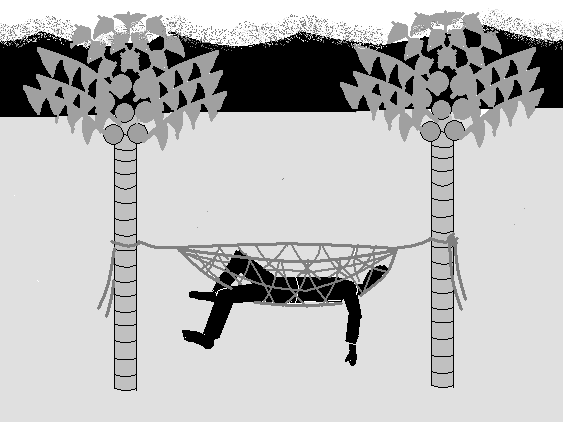
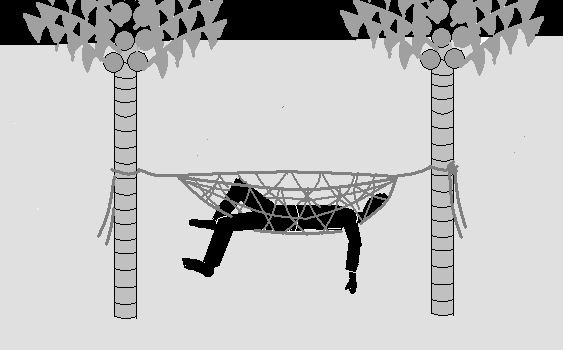
Fluid slide show layout.
On branch master
	modified:   static/css/master.css
	modified:   static/img/presentation/resting_software_engineer.png
	modified:   templates/base.html
	modified:   templates/home.html
	modified:   templates/join.html

diff --git a/google-app-engine/templates/home.html b/google-app-engine/templates/home.html
@@ -27,11 +27,208 @@ See CC-LICENSE in this folder for more details.
 
 {% endcomment %}{% extends "base.html" %}
 
+{% block top %}<script type="text/javascript" src="http://ajax.googleapis.com/ajax/libs/jquery/1.4.2/jquery.min.js"></script>
+<!--
+<script type="text/javascript" src="/js/jquery.js"></script>
+-->
+<script type="text/javascript" src="js/jquery.fireworks-impression.js"></script>
+<script type="text/javascript">
+/*jslint
+  browser: true
+, onevar: true
+, undef: true
+, nomen: true
+, eqeqeq: true
+, plusplus: true
+, bitwise: true
+, regexp: true
+, newcap: true
+, immed: true
+, strict: true
+, maxlen: 80
+*/
+
+/*global
+  window: false
+, console: true
+*/
+
+// ECMAScript 5 strict mode.
+"use strict";
+
+// Page specifications.
+var SPEC = {};
+
+SPEC.slideShowIntervals = [
+  7000
+, 5500
+, 9000
+, 7000
+, 6500
+, 7000
+, 8000
+, 10500
+, 7500
+, 9500
+, 8500
+, 7500
+];
+
+// Create a console object if there is not an ambient one.
+if (typeof console === 'undefined') {
+  var F = function () {};
+  console = {
+    log: F
+  , info: F
+  , error: F
+  , warn: F
+  , debug: F
+  , assert: F
+  };
+}
+
+// Page script is composed inside a closure.
+(function (window) {
+  // jQuery is assigned to j
+  var j = window.jQuery.noConflict(true)
+    , DOM_loaded = true
+    , WF_loaded = false
+    , presentation_intervals = window.SPEC.slideShowIntervals
+    , presentation
+    ;
+
+  WebFontConfig.typekit = {id: 'fcq2zzl'};
+
+  function slide_show_setup() {
+    console.debug('slide_show_setup() triggered');
+    if (!DOM_loaded || !WF_loaded) {
+      console.debug('DOM_loaded =', DOM_loaded);
+      console.debug('WF_loaded =', WF_loaded);
+      return;
+    }
+    console.debug('slide_show_setup() happening');
+
+    var presentation_player = j('#about-presentation')
+      , slide_height = 0
+      , controls = j('#presentation-controls')
+      , controls_height
+      , controls_padding = 12 // top + bottom padding
+      , controls_margins = 40 // left + right margin
+      , controls_widths = 60 // forward + back controls
+      , border_width = 2 // Presentation border
+      ;
+
+    j('div.presentation.slide')
+      .each(function (i) {
+        var h = j(this).show().height();
+        if (h > slide_height) {
+          slide_height = h;
+        }
+      })
+      .hide()
+      .css('height', slide_height +'px')
+      ;
+
+    controls_height = controls.show().height() + controls_padding;
+    j('#player-controls-notice')
+      .width(presentation_player.width()
+             - controls_margins
+             - controls_widths);
+    controls.hide();
+    console.debug('Slide show height', slide_height);
+    console.debug('Controls height', controls_height);
+    presentation_player
+      .css('border', '2px dashed #aaa')
+      .height(slide_height + controls_height);
+    j('#presentation-player-intro')
+      .click(function () {
+        var controls_notice_action = j('#controls-notice-action')
+          , controls_notice_index = j('#controls-notice-index')
+          ;
+
+        j('#controls-notice-length').text(presentation_intervals.length);
+
+        j(this).hide();
+        controls
+          .css('top', (slide_height + border_width) +'px')
+          .show();
+        presentation
+          .impression('play')
+          .css('cursor', 'pointer')
+          .toggle(
+            function () {
+              controls_notice_action.text('stopped on:');
+              presentation.impression('stop');
+            },
+            function () {
+              controls_notice_action.text('playing:');
+              presentation.impression('play');
+              })
+          .bind('impressShowing', function (ev, i) {
+            controls_notice_index.text(i +1);
+          })
+          ;
+        controls_notice_action.text('playing:');
+        controls_notice_index.text('1');
+        return false;
+      })
+      .show();
+  }
+
+  WebFontConfig.active = function () {
+    console.log('WebFont active event');
+    WF_loaded = true;
+    slide_show_setup();
+  };
+
+  j(function (j) {
+    presentation = j('#presentation').impression({
+      intervals: presentation_intervals 
+    });
+
+    j('#about').css('text-align', 'left');
+    j('#about-introduction').css({
+        width          : '48%'
+      , overflow       : 'hide'
+      , 'margin-top'   : '3em'
+      , 'margin-right' : '0'
+      , 'margin-left'  : '0'
+      , 'margin-bottom': '0'
+      , 'float'        : 'left'
+      });
+    j('#about-presentation')
+      .html(j('#presentation-player-template').html())
+      .append(presentation)
+      ;
+    j('div.presentation.slide')
+      .css({
+        'width': '100%'
+      , 'height': '100%'
+      , 'float': 'none'
+      , 'border-top': 'none'
+      , 'border-right': 'none'
+      , 'border-left': 'none'
+      , 'margin-top': '0'
+      , 'margin-left': '0'
+      , 'margin-bottom': '0'
+      , 'margin-right': '0'
+      });
+
+    DOM_loaded = true;
+    slide_show_setup();
+  });
+}(window));
+</script>{% endblock %}
+
 {% block head %}<style type="text/css">
+  #about {
+    text-align: center;
+  }
   #about-introduction {
-    float: left;
-    width: 474px;
-    margin-top: 5em;
+    width: 40em;
+    overflow: show;
+    margin: auto;
+    text-align: left;
   }
   #about-introduction h3.intro {
     font-size: 170%;
@@ -43,19 +240,19 @@ See CC-LICENSE in this folder for more details.
   }
   #about-presentation {
     font-family: "good-dog-1", "good-dog-2", monospace;
+    margin-left: 50%;
     position: relative;
-    margin-left: 494px;
   }
   #presentation-player-intro {
     text-align: center;
     font-size: 32px;
-    width: 250px;
-    height: 182px; /*Flow height calculated with Firebug with 7px of contingency. */
+    width: 12em;
     position: absolute;
     left: 50%;
     top: 40%;
-    margin-left: -125px;
-    margin-top: -91px;
+    margin-left: -6em;
+    margin-top: -2em;
+    cursor: pointer;
   }
   #player-intro-content {
     margin-bottom: 1em;
@@ -64,20 +261,17 @@ See CC-LICENSE in this folder for more details.
     position: absolute;
     font-size: 24px;
     padding: 6px 0;
+    line-height: 1.5;
+    margin-left: 20px;
   }
-  #player-controls-back {
+  #player-back-control, #player-forward-control {
+    display: block;
     float: left;
-    margin-left: 10px;
-    cursor: pointer;
+    line-height: 0;
   }
   #player-controls-notice {
     float: left;
     text-align: center;
-  }
-  #player-controls-next {
-    float: right;
-    margin-right: 10px;
-    cursor: pointer;
   }
   #journal-form {
     overflow: hidden;
@@ -134,8 +328,8 @@ See CC-LICENSE in this folder for more details.
    * ---
    */
   div.presentation.slide {
-    width: 400px;
-    height: 320px;
+    width: 20em;
+    height: 16em;
     float: left;
     border: 2px dashed #aaa;
     margin-left: 2em;
@@ -170,7 +364,7 @@ See CC-LICENSE in this folder for more details.
     margin: 0 1em 1em;
   }
   #slide-3-content-1 {
-    margin: 1em 1em 0;
+    margin: 1em 1em .5em;
   }
   #slide-3-image {
     margin-left: 18%;
@@ -179,7 +373,7 @@ See CC-LICENSE in this folder for more details.
     margin: 1em;
   }
   #slide-4-content-1 {
-    margin: .5em 1em;
+    margin: .5em 1em 1em;
   }
   #slide-4-image {
     margin-left: 14%;
@@ -226,23 +420,18 @@ See CC-LICENSE in this folder for more details.
     margin: 1.5em 0 0 1em;
   }
   #slide-10-content-1 {
-    margin: .5em;
+    margin: .5em 1em 1em;
   }
   #slide-10-image {
     margin-left: 18%;
   }
   #slide-12-content-1 {
-    margin: .5em;
+    margin: .5em 1em 1em;
   }
   #slide-12-image {
     margin-left: 18%;
   }
-</style>
-<script type="text/javascript" src="http://ajax.googleapis.com/ajax/libs/jquery/1.4.2/jquery.min.js"></script>
-<!--
-<script type="text/javascript" src="/js/jquery.js"></script>
--->
-<script type="text/javascript" src="js/jquery.fireworks-impression.js"></script>{% endblock %}
+</style>{% endblock %}
 
 {% block body %}<div id="home-page" class="inner content container">
       <div id="about">
@@ -263,10 +452,8 @@ See CC-LICENSE in this folder for more details.
                 title="Left arrow control." class="presentation control" width="30" height="30" />
             </a>
             <p id="player-controls-notice" class="presentation control">
-            <span id="controls-notice-action"></span>
-            <span id="controls-notice-index"></span>
-            of
-            <span id="controls-notice-length"></span>
+            <span id="controls-notice-action"></span> <span id="controls-notice-index"></span>
+             of <span id="controls-notice-length"></span>
             </p>
             <a id="player-forward-control" href="#" title="Go forward one slide.">
               <img id="player-controls-next" src="/img/presentation/right-arrow-30.gif"

diff --git a/google-app-engine/static/css/master.css b/google-app-engine/static/css/master.css
@@ -67,8 +67,11 @@ body {
   font-size: .9em;
   color: #222;
   line-height: 1.5;
-  visibility: hidden;
   background: #fff;
+}
+
+.wf-inactive body {
+  visibility: hidden;
 }
 
 .wf-active body {
@@ -136,19 +139,11 @@ a {
 /* Global content container.
  * -------------------------
  */
-#container { /* The body element. */
-  /* IE doesn't like margin: auto; so we have to do this instead. */
-  text-align: center;
-}
-.content.container {
-  /* re-align the text back to the left. */
-  text-align: left;
-}
 div.inner.content.container {
   /* Each page has a div.outer.container
    * that forms the main content container. */
-  width: 900px;
-  margin: 3em auto 0;
+  width: 80%;
+  margin: 3em 9.9% 0;
 }
 
 /* Global footer.

diff --git a/google-app-engine/templates/join.html b/google-app-engine/templates/join.html
@@ -235,10 +235,10 @@ if (typeof console === 'undefined') {
 
 // Page script is composed inside a closure.
 (function (window) {
-   // jQuery is assigned to j
-   var j = window.jQuery.noConflict(true)
-     , messages = window.SPEC.messages
-     ;
+  // jQuery is assigned to j
+  var j = window.jQuery.noConflict(true)
+    , messages = window.SPEC.messages
+    ;
 
     // The server will send HTML if we don't specify application/json.
     j.ajaxSetup({'beforeSend': function (xhr) {

diff --git a/google-app-engine/templates/base.html b/google-app-engine/templates/base.html
@@ -28,7 +28,6 @@ See CC-LICENSE in this folder for more details.
 {% endcomment %}<!DOCTYPE html PUBLIC "-//W3C//DTD XHTML 1.0 Strict//EN" "http://www.w3.org/TR/xhtml1/DTD/xhtml1-strict.dtd">
 <html xmlns="http://www.w3.org/1999/xhtml" xml:lang="en" lang="en">
 <head>
-<!-- Start loading webfonts as soon as possible. -->
 <script type="text/javascript">
   WebFontConfig = {
     google: {families: ['Droid Sans:regular', 'Droid Sans:bold']}
